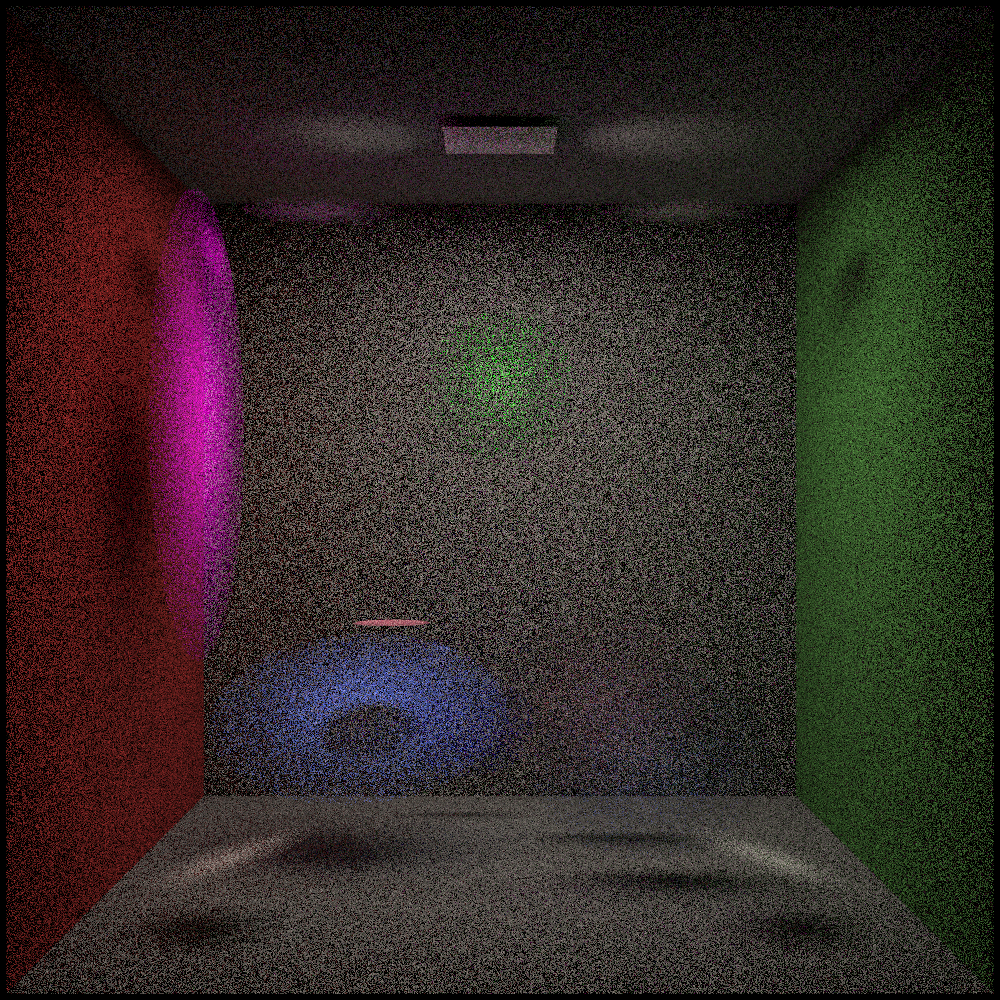
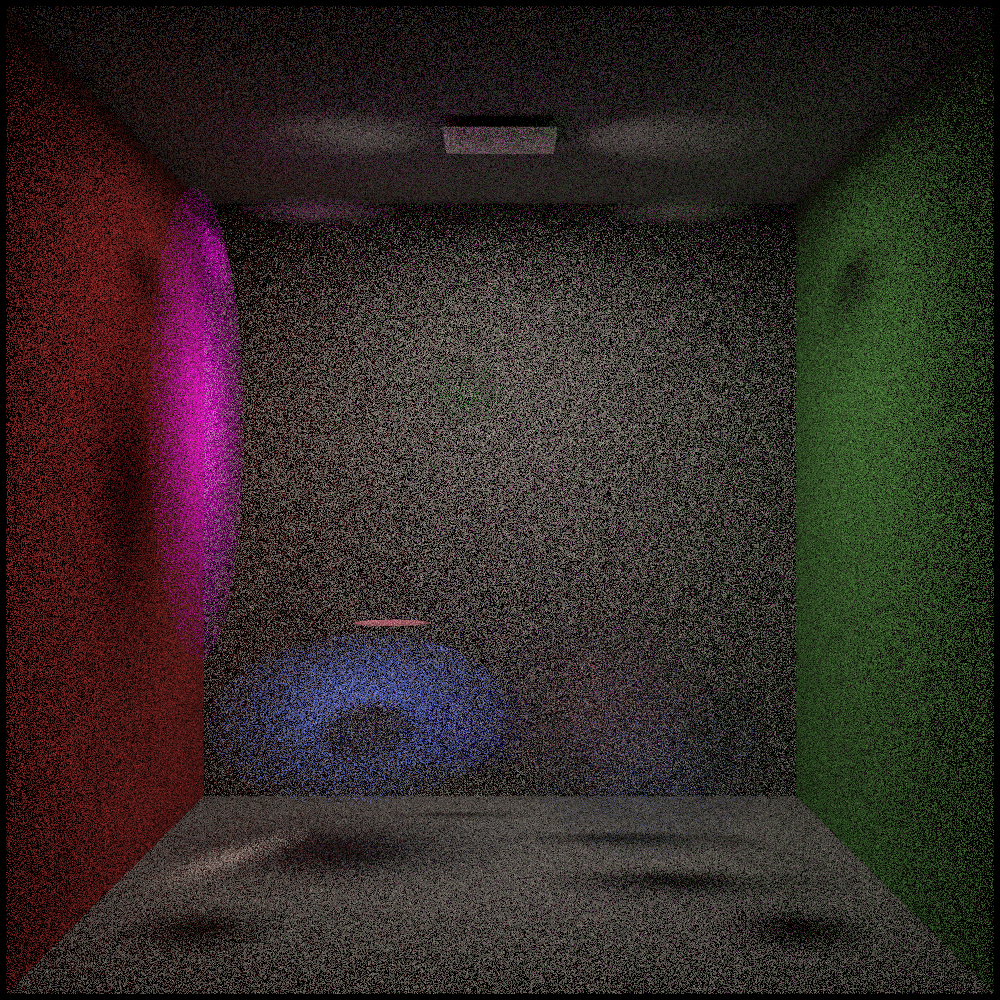
implemented some gradients

diff --git a/Pale/Renderer/Kernels/AdjointKernels.cpp b/Pale/Renderer/Kernels/AdjointKernels.cpp
@@ -22,7 +22,7 @@ namespace Pale {
 
         uint32_t raysPerSet = imageWidth * imageHeight;
 
-        raysPerSet = 5;
+        //raysPerSet = 5;
 
         const uint32_t perPassRayCount = raysPerSet;
         queue.memcpy(pkg.intermediates.countPrimary, &perPassRayCount, sizeof(uint32_t)).wait();
@@ -64,8 +64,8 @@ namespace Pale {
                         jitterX, jitterY
                     );
 
-                    primaryRay.direction = normalize(float3{-0.01, 1.0, 0.04});
-                    primaryRay.origin = float3{0.0, -4.0, 1.0};
+                    //primaryRay.direction = normalize(float3{-0.01, 1.0, 0.04});
+                    //primaryRay.origin = float3{0.0, -4.0, 1.0};
                     primaryRay.normal = normalize(float3{0.0, 1.0, 0.0});
 
                     RayState rayState{};
@@ -107,7 +107,7 @@ namespace Pale {
                     WorldHit worldHit = hitRecords[rayIndex];
                     RayState rayState = raysIn[rayIndex];
 
-                    printf("adjoint item %u, hit t: %f\n", rayIndex, worldHit.t);
+                    //printf("adjoint item %u, hit t: %f SplatEvents: %u \n", rayIndex, worldHit.t, worldHit.splatEventCount);
 
                     // rayIndex 2 is mesh
                     // rayIndex 3 is surfel a
@@ -126,9 +126,11 @@ namespace Pale {
                     // 2. Add in-scattering to surfel events along side interior contribution. Use the attached points to propagate change to transmissivity.
 
                     // Mesh background with in-scattering:
-                    float3 gradAccum(0.0f);
-                    if (rayIndex == 0) {
-                        Ray& ray = rayState.ray;
+                    auto &instance = scene.instances[worldHit.instanceIndex];
+
+                    Ray &ray = rayState.ray;
+                    float3 grad_L(0.0f);
+                    if (worldHit.splatEventCount == 1 && instance.geometryType == GeometryType::Mesh) {
                         float3 d = worldHit.hitPositionW - ray.origin;
                         float r2 = dot(d, d);
                         if (r2 <= 0.0)
@@ -142,9 +144,7 @@ namespace Pale {
                         float G_bg = (cos_fg * cos_bg) / r2;
 
                         float3 L_mesh = estimateRadianceFromPhotonMap(
-                                      worldHit, scene, photonMap, settings.photonsPerLaunch);
-
-                        float3 L_bg = L_mesh * G_bg;
+                            worldHit, scene, photonMap, settings.photonsPerLaunch);
 
                         // alpha surfel
                         auto surfel = scene.points[worldHit.splatEvents[0].primitiveIndex];
@@ -155,7 +155,8 @@ namespace Pale {
                         float t_param = dot(n, surfel.position - ray.origin) / denom;
 
                         float3 p_hit = ray.origin + t_param * d;
-                        float2 uv = phiInverse(p_hit, surfel.position, surfel.tanU, surfel.tanV, surfel.scale.x(), surfel.scale.y());
+                        float2 uv = phiInverse(p_hit, surfel.position, surfel.tanU, surfel.tanV, surfel.scale.x(),
+                                               surfel.scale.y());
                         float u = uv[0];
                         float v = uv[1];
                         float alpha = expf(-0.5f * (u * u + v * v));
@@ -163,59 +164,88 @@ namespace Pale {
                         float3 grad_u = ((dot(surfel.tanU, d) / denom) * n - surfel.tanU) / surfel.scale.x();
                         float3 grad_v = ((dot(surfel.tanV, d) / denom) * n - surfel.tanV) / surfel.scale.y();
                         float3 grad_alpha = -alpha * (u * grad_u + v * grad_v);
+                        float3 dT_dc = -grad_alpha;
 
                         // Volume geometric term
                         // Receiver-only geometry and its gradient wrt hit point z = p_hit
                         float3 z = p_hit;
                         float3 rvec = z - ray.origin;
-                        float r2e  = dot(rvec, rvec);
+                        float r2e = dot(rvec, rvec);
                         if (r2e <= 0.0f) return;
                         float re = sqrtf(r2e);
 
                         // w points into the camera (same as Python w_x)
-                        float3 wcam = -rvec / re;
-                        float cosRecv = fmaxf(0.0f, dot(ray.normal, wcam));
-                        float Gv_A = cosRecv / r2e;
+                        float3 directionToHit = rvec / re;
+                        float cosineReceiver = fmaxf(0.0f, dot(ray.normal, directionToHit));
+                        float Gv = cosineReceiver / r2e;
 
-                        // gradient wrt z; match Python exactly
                         float3 gradGv_z = float3(0.0f);
-                        if (cosRecv > 0.0f) {
+                        if (cosineReceiver > 0.0f) {
+                            const float wDotN = dot(directionToHit, ray.normal);
+                            // (I - w w^T) n
+                            const float3 projectedNormal = ray.normal - directionToHit * wDotN;
 
-                            float w_dot_n = dot(wcam, ray.normal);
-                            float3 Pw_n = ray.normal - wcam * w_dot_n;
-                            float inv_r3 = 1.0f / (re * re * re);
-                            float3 grad_cos = -Pw_n / re;
-                            float3 d_inv_r2 = (2.0f * wcam) * inv_r3;
-                            gradGv_z = grad_cos / r2e + cosRecv * d_inv_r2;
+                            const float inverseR3 = 1.0f / (re * re * re);
+
+                            // d cos / dz = ((I - w w^T) n) / r
+                            const float3 gradCosine = projectedNormal / re;
+
+                            // d (1/r^2) / dz = -2 w / r^3
+                            const float3 dInvR2_dz = -2.0f * directionToHit * inverseR3;
+
+                            gradGv_z = gradCosine / r2e + cosineReceiver * dInvR2_dz;
                         }
-
                         // Map ∇_z Gv to surfel-position parameter p_i using dz/dp_i = d n^T / (n·d)
                         float dotD_grad = dot(d, gradGv_z);
                         float3 gradGv_p = (dotD_grad / denom) * n;
 
-                            float3 S_a_L = estimateSurfelRadianceFromPhotonMap(worldHit.splatEvents[0], scene, photonMap,
-                                               settings.photonsPerLaunch);
-
-                            float3 S_A = S_a_L * Gv_A;
-
-                            // Scale by emitted radiance of surfel A to get dS_A/dp_i
-                            float3 gradSA = S_a_L * gradGv_p;
-
-                            // Combine with alpha term: dL/dp_i += (S_A - B_eff) * d alpha + alpha * d S_A
-                            // You already have: S_A, B_eff, alpha, grad_alpha
-                            gradAccum = (S_A - L_bg) * grad_alpha + alpha * gradSA;
-
-
+                        float3 S_a_L = estimateSurfelRadianceFromPhotonMap(worldHit.splatEvents[0], scene, photonMap,
+                                                                           settings.photonsPerLaunch);
+                        float L_surfel = luminance(S_a_L);
+                        float L_bg = luminance(L_mesh);
+                        //Use Rec.709 (sRGB) luminance.
+                        float3 grad_L_bg = dT_dc * (L_bg * G_bg);
+                        float3 grad_L_surf = grad_alpha * (L_surfel * Gv) + (alpha * L_surfel) * gradGv_p;
+                        grad_L = grad_L_bg + grad_L_surf;
                     }
 
+                    if (worldHit.splatEventCount == 1 && instance.geometryType == GeometryType::PointCloud) {
+                        float3 &x = ray.origin;
+                        float3 &y = worldHit.hitPositionW;
+                        float3 rvec = y - x;
+                        float r2 = dot(rvec, rvec);
+                        if (r2 <= 0.0f) return;
+                        float r = sqrtf(r2);
+
+                        float3 u = (x- y) / r; // Into the camera
+                        float3 surfel_normal = worldHit.geometricNormalW;
+                        float a = dot(surfel_normal, u);
+                        float b = dot(ray.normal, -u);
+
+                        if (a <= 0.0f || b <= 0.0f) {
+                            return;
+                        }
+
+                        float3 grad_G = (-b * surfel_normal + a * ray.normal + 4.0f * a *b * u) / (r * r * r);
+
+                        float3 S_a_L = estimateSurfelRadianceFromPhotonMap(worldHit.splatEvents[0], scene, photonMap,
+                                                   settings.photonsPerLaunch);
+                        float L_surfel = luminance(S_a_L);
+
+                        grad_L = L_surfel * grad_G;
+
+                    }
 
                     if (!worldHit.hit) {
                         return;
                     }
 
                     if (rayState.bounceIndex >= 0) {
+                        const float3 parameterAxis = {0.0f, 0.0f, 1.00f};
+                        const float dVdp_scalar = dot(grad_L, parameterAxis);
+
                         float4 &gradImageDst = sensor.framebuffer[rayState.pixelIndex];
-                        atomicAddFloatToImage(&gradImageDst, 0);
+                        atomicAddFloatToImage(&gradImageDst, dVdp_scalar);
                     }
                 });
         });

diff --git a/Pale/Renderer/Kernels/IntersectionKernels.h b/Pale/Renderer/Kernels/IntersectionKernels.h
@@ -196,7 +196,10 @@ namespace Pale {
                     localHitOut.primitiveIndex = groupIndices[i];
                     localHitOut.transmissivity = cumulativeTransmittanceBefore;
                     // transmittance before the accepted event
-
+                    // Dont count this as a splat event
+                    if (localHitOut.primitiveIndex == localHitOut.splatEvents[0].primitiveIndex) {
+                        //localHitOut.splatEventCount--;
+                    }
                     clearCurrentGroup();
                     return true; // accepted scatter at this depth
                 }

diff --git a/Pale/Renderer/Kernels/KernelHelpers.h b/Pale/Renderer/Kernels/KernelHelpers.h
@@ -803,4 +803,16 @@ namespace Pale {
         return surfelCenter + su * tu * u + sv * tv * v;
     }
 
+    inline float computeLuminanceRec709(const float3& inputRgbLinear) {
+        const float redWeight   = 0.2126f;
+        const float greenWeight = 0.7152f;
+        const float blueWeight  = 0.0722f;
+        return redWeight * inputRgbLinear[0]
+             + greenWeight * inputRgbLinear[1]
+             + blueWeight * inputRgbLinear[2];
+    }
+
+    inline float luminance(const float3& rgb) {
+        return computeLuminanceRec709(rgb);
+    }
 }

diff --git a/Pale/Renderer/GPUDataStructures.h b/Pale/Renderer/GPUDataStructures.h
@@ -289,7 +289,6 @@ namespace Pale {
         float transmissivity = 1.0f;
         // 0.0 = No transmission. 1.0 Full transmission (I.e. default until we interact with someething)
         uint32_t primitiveIndex = UINT32_MAX;
-        uint32_t splatIndices[5] = {UINT32_MAX, UINT32_MAX, UINT32_MAX, UINT32_MAX, UINT32_MAX};
         uint32_t instanceIndex = UINT32_MAX;
         float3 hitPositionW = float3(0.0f);
         float3 geometricNormalW = float3(0.0f);; // optional: fill if you have it cheaply

diff --git a/Pale/Core/DeviceSelector.cpp b/Pale/Core/DeviceSelector.cpp
@@ -13,7 +13,7 @@ namespace Pale {
 
     DeviceSelector::DeviceSelector() {
         try {
-            m_device = sycl::device(sycl::default_selector{});
+            m_device = sycl::device(sycl::cpu_selector{});
         } catch (const sycl::exception& exception_object) {
             Log::PA_ERROR("Cannot select a GPU: {}", exception_object.what());
             Log::PA_WARN("Falling back to CPU device");

diff --git a/Pale/Renderer/GPUDataTypes.h b/Pale/Renderer/GPUDataTypes.h
@@ -389,4 +389,6 @@ namespace Pale {
                 out.row[r][c] = m[c][r];
         return out;
     }
+
+
 }
